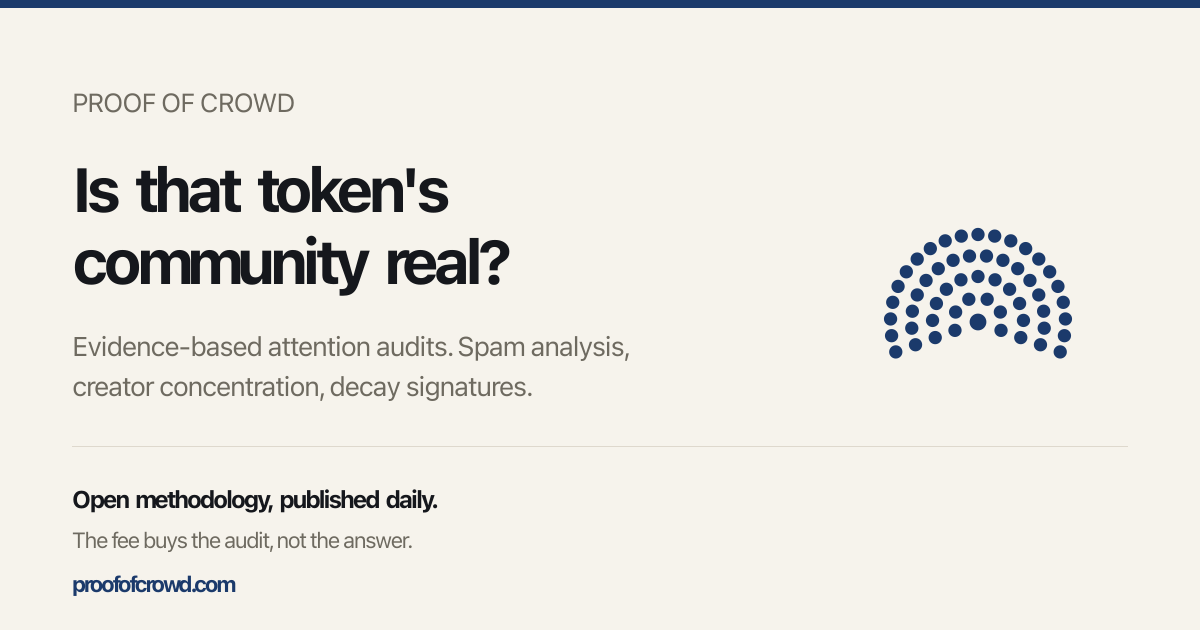
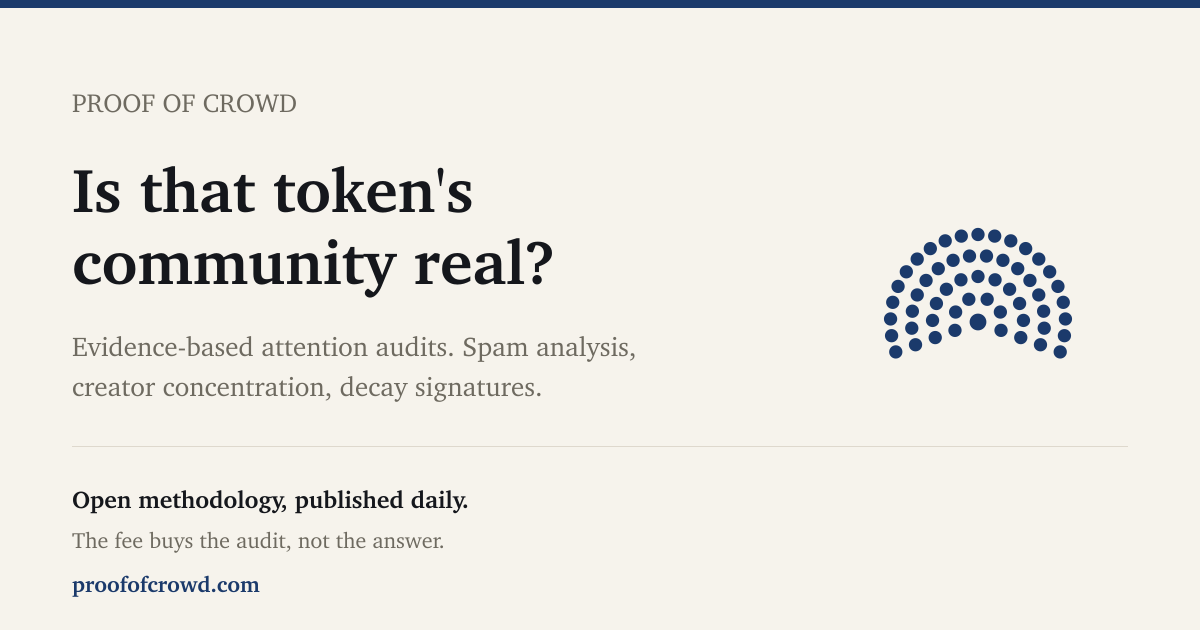
Charter, monospaced figures, and the X pair
Charter throughout. It was drawn as a reading serif for small sizes, so it
survives a table, and it makes a report read as a document rather than a
webpage. Figures go monospaced: an audit's numbers should read as measured
rather than asserted, and an aligned column stops a wider glyph passing for a
bigger value.

Choosing it turned up two things worth recording. fc-list listing a family
proves nothing, because librsvg goes through pango, which cannot load several
macOS .ttc collections and falls back to Helvetica in silence; a first pass at
comparing type directions was unknowingly comparing Helvetica with itself in
four rows of five. And the hand-set word spacing these generators carried is
now gone, since it only existed to survive a faked bold Helvetica that
swallowed spaces, and would have double-spaced a real bold face.

Adds assets/make_social.py for the X profile picture and header. The avatar
centres on the mark's ink rather than its grid, because an arch open at the
bottom does not sit where its bounding box claims, and X crops it to a circle.
The header keeps its lower left empty, which is where X lays the avatar.

diff --git a/styles.css b/styles.css
@@ -8,9 +8,16 @@
   --text: #15171c; --sub: #6e6a60;
   --brand: #1b3a6b; --on-brand: #ffffff;
   --ok: #236440; --mid: #7d560c; --bad: #a33228;
+
+  /* Charter throughout, with Georgia as the stand-in where Charter is absent.
+     Figures go in a monospace: an audit's numbers should read as measured
+     rather than asserted, and an aligned column stops a wider glyph passing
+     for a bigger value. */
+  --serif: Charter, "Bitstream Charter", "Charis SIL", Georgia, serif;
+  --mono: ui-monospace, Menlo, "SF Mono", "Cascadia Mono", "Roboto Mono", monospace;
 }
 * { margin: 0; padding: 0; box-sizing: border-box; }
-body { background: var(--bg); color: var(--text); font-family: system-ui, -apple-system, "Segoe UI", Helvetica, Arial, sans-serif; line-height: 1.6; }
+body { background: var(--bg); color: var(--text); font-family: var(--serif); line-height: 1.62; }
 .wrap { max-width: 860px; margin: 0 auto; padding: 0 24px; }
 nav { display: flex; align-items: center; gap: 26px; padding: 22px 0; border-bottom: 1px solid var(--line); }
 nav .brand { display: inline-flex; align-items: center; gap: 9px; font-weight: 800; font-size: 17px; color: var(--text); text-decoration: none; letter-spacing: 0.3px; }
@@ -97,3 +104,11 @@ img.chart { max-width: 100%; border-radius: 12px; border: 1px solid var(--line);
 .form .note { font-size: 13.5px; color: var(--sub); }
 .form .hp { position: absolute; left: -9999px; }
 @media (max-width: 620px) { .form .row { grid-template-columns: 1fr; } }
+
+/* Figures. Applied where a number is the point: the verdict score, the prices,
+   and the value column of a report table. */
+/* Only the figure goes mono. The verdict is a word and belongs in Charter. */
+.fig, .tier .price { font-family: var(--mono); letter-spacing: -0.5px; }
+.report-table td:nth-child(2) { font-family: var(--mono); font-size: 14px; }
+.kicker, nav a.link, th { font-family: var(--mono); }
+th { letter-spacing: 0.5px; }

diff --git a/sample.html b/sample.html
@@ -43,10 +43,10 @@
 <section style="border-top: none; padding-top: 24px;">
   <h2>1 · Verdict summary</h2>
   <div class="verdict-banner">
-    <div class="score">97/100 · manufactured</div>
+    <div class="score"><span class="fig">97/100</span> · manufactured</div>
     <p style="margin: 10px 0 0;">On July 31 the token's social attention spiked to roughly 6x its baseline while price stayed flat. The spike's composition was inconsistent with an arriving crowd: spam volume ran at twice the token's own 30-day norm, and three accounts generated 98% of all measurable interactions. The five days that followed showed the decisive signature: attention collapsed below the pre-spike baseline, the opposite of what genuine new-population events leave behind.</p>
   </div>
-  <table>
+  <table class="report-table">
     <tr><th>Metric</th><th>Value</th><th>Read</th></tr>
     <tr><td>Attention vs 30d baseline (event day)</td><td>~6x (2.1M interactions vs ~350k norm)</td><td><span class="flag">major spike</span></td></tr>
     <tr><td>Spam volume vs the token's own norm</td><td>2.0x</td><td><span class="flag">fresh wave</span></td></tr>

diff --git a/assets/make_social.py b/assets/make_social.py
@@ -1,0 +1,86 @@
+#!/usr/bin/env python3
+"""Profile picture and header for X.
+
+Two constraints drive the layout. X crops the avatar to a circle, so the mark
+sits centred on its own bounding box rather than on the 64-unit grid, whose
+centre is not where the ink is. And the avatar overlaps the header's lower
+left, so everything in that corner has to stay clear: roughly the left 340px
+below y=320 is dead space and is deliberately left empty.
+
+Usage: python3 assets/make_social.py
+"""
+
+import importlib.util
+import subprocess
+from pathlib import Path
+
+HERE = Path(__file__).resolve().parent
+SHARP = "/Users/nicki/lunarcrush-projects/projects/crowd-size/node_modules/sharp"
+
+_spec = importlib.util.spec_from_file_location("make_logo", HERE / "make_logo.py")
+_logo = importlib.util.module_from_spec(_spec); _spec.loader.exec_module(_logo)
+
+PAPER, PANEL, INK, SUB = "#f6f3ec", "#ffffff", "#15171c", "#6e6a60"
+BRAND, BAD, RULE = "#1b3a6b", "#a33228", "#ded8cd"
+SERIF, MONO = "Charter, Georgia, serif", "Menlo, ui-monospace, monospace"
+
+# The mark's ink, not its grid. The arch spans x 5..59 and y 9..47, so its
+# visual centre sits at (32, 28) and centring on (32, 32) would hang it low.
+INK_CX, INK_CY, INK_W = 32.0, 28.0, 54.0
+
+
+def esc(s):
+    return s.replace("&", "&amp;").replace("<", "&lt;").replace(">", "&gt;")
+
+
+def t(x, y, size, fill, s, weight=400, anchor="start", font=SERIF, extra=""):
+    return (f'<text x="{x}" y="{y}" font-size="{size}" fill="{fill}" font-weight="{weight}" '
+            f'text-anchor="{anchor}" font-family="{font}" {extra}>'
+            f'{s if "<tspan" in s else esc(s)}</text>')
+
+
+def render(name, w, h, body, bg=PAPER):
+    svg = (f'<svg xmlns="http://www.w3.org/2000/svg" width="{w}" height="{h}" '
+           f'viewBox="0 0 {w} {h}"><rect width="{w}" height="{h}" fill="{bg}"/>{body}</svg>')
+    (HERE / f"{name}.svg").write_text(svg)
+    subprocess.run(["node", "-e",
+        f"const s=require('{SHARP}');s('{HERE}/{name}.svg',{{density:300}}).resize({w},{h})"
+        f".png().toFile('{HERE}/{name}.png').then(i=>console.log('{name}.png',i.width+'x'+i.height));"],
+        check=True)
+
+
+def centred_mark(size, target_w):
+    """Place the mark so its ink, not its grid, lands in the middle."""
+    k = target_w / INK_W
+    return (f'<g transform="translate({size / 2 - INK_CX * k:.1f},{size / 2 - INK_CY * k:.1f}) '
+            f'scale({k:.4f})">{_logo.mark()}</g>')
+
+
+# ------------------------------------------------------- avatar (circle crop)
+for px in (400, 1000):
+    render(f"x-avatar-{px}", px, px, centred_mark(px, px * 0.63))
+
+# ------------------------------------------------------------ header 1500x500
+CARD_X, CARD_Y, CARD_W, CARD_H = 950, 104, 490, 286
+header = [
+    f'<rect x="0" y="0" width="1500" height="7" fill="{BRAND}"/>',
+    # Upper left only. Below y=320 on this side the avatar sits on top.
+    t(70, 150, 25, SUB, "EVIDENCE-BASED ATTENTION AUDITS", 400, font=MONO,
+      extra='letter-spacing="2"'),
+    t(70, 222, 58, INK, f'Proof of<tspan dx="17" fill="{BRAND}">Crowd</tspan>', 700),
+    t(70, 272, 26, SUB, "Who is actually talking, how much of it is manufactured,"),
+    t(70, 308, 26, SUB, "and whether the crowd survives a spreadsheet."),
+    # Right: what the product produces, rather than the logo a second time.
+    f'<rect x="{CARD_X}" y="{CARD_Y}" width="{CARD_W}" height="{CARD_H}" rx="14" '
+    f'fill="{PANEL}" stroke="{RULE}" stroke-width="1.5"/>',
+    t(CARD_X + 30, CARD_Y + 44, 15, SUB, "SAMPLE VERDICT", 400, font=MONO, extra='letter-spacing="1.6"'),
+    t(CARD_X + 30, CARD_Y + 104, 44, BAD, "97/100", 700, font=MONO),
+    t(CARD_X + 30, CARD_Y + 146, 30, BAD, "manufactured", 700),
+    f'<rect x="{CARD_X + 30}" y="{CARD_Y + 170}" width="{CARD_W - 60}" height="1" fill="{RULE}"/>',
+    t(CARD_X + 30, CARD_Y + 206, 18, SUB, "Spam vs the token's own norm"),
+    t(CARD_X + CARD_W - 30, CARD_Y + 206, 18, INK, "2.0x", 700, "end", MONO),
+    t(CARD_X + 30, CARD_Y + 244, 18, SUB, "Top 3 creator share"),
+    t(CARD_X + CARD_W - 30, CARD_Y + 244, 18, INK, "98%", 700, "end", MONO),
+    t(1440, 440, 25, BRAND, "proofofcrowd.com", 700, "end"),
+]
+render("x-header", 1500, 500, "".join(header))

diff --git a/assets/make_report_charts.py b/assets/make_report_charts.py
@@ -13,7 +13,8 @@ from pathlib import Path
 
 HERE = Path(__file__).resolve().parent
 SHARP = "/Users/nicki/lunarcrush-projects/projects/crowd-size/node_modules/sharp"
-FONT = "system-ui, -apple-system, 'Segoe UI', Helvetica, Arial, sans-serif"
+FONT = "Charter, Georgia, serif"
+MONO = "Menlo, ui-monospace, monospace"
 
 GROUND, INK, SUB, RULE = "#ffffff", "#15171c", "#6e6a60", "#ded8cd"
 NEUTRAL, OK, BAD = "#8d8578", "#236440", "#a33228"   # all clear 3:1 on white
@@ -23,19 +24,16 @@ def esc(s):
     return s.replace("&", "&amp;").replace("<", "&lt;").replace(">", "&gt;")
 
 
-def heavy(text, size):
-    """librsvg drops word spaces at bold weights, so set them by hand."""
-    w = text.split(" ")
-    out = [esc(w[0])]
-    for prev, nxt in zip(w, w[1:]):
-        out.append(f'<tspan dx="{size * (0.45 if prev.endswith("%") else 0.30):.0f}">{esc(nxt)}</tspan>')
-    return "".join(out)
+# Charter ships a real bold face, so librsvg keeps the word spaces and the
+# hand-set spacing this file used to need is gone.
 
 
-def txt(x, y, size, fill, s, weight=400, anchor="start"):
-    body = heavy(s, size) if weight >= 700 and " " in s else esc(s)
+def txt(x, y, size, fill, s, weight=400, anchor="start", font=None):
+    """Figures go in MONO. An audit's numbers should read as measured rather
+    than asserted, and a monospace column also stops the eye from mistaking a
+    wider glyph for a bigger value."""
     return (f'<text x="{x}" y="{y}" font-size="{size}" fill="{fill}" font-weight="{weight}" '
-            f'text-anchor="{anchor}" font-family="{FONT}">{body}</text>')
+            f'text-anchor="{anchor}" font-family="{font or FONT}">{esc(s)}</text>')
 
 
 def render(name, w, h, body, scale=2):
@@ -63,7 +61,7 @@ for i, (day, val, label) in enumerate(DAYS):
     flagged = day == "Jul 31"
     body.append(f'<rect x="{x:.1f}" y="{BASE - h:.1f}" width="{bw:.1f}" height="{h:.1f}" rx="4" '
                 f'fill="{BAD if flagged else NEUTRAL}"/>')
-    body.append(txt(x + bw / 2, BASE - h - 14, 24, BAD if flagged else INK, label, 700, "middle"))
+    body.append(txt(x + bw / 2, BASE - h - 14, 23, BAD if flagged else INK, label, 700, "middle", MONO))
     body.append(txt(x + bw / 2, 592, 19, SUB, day, 400, "middle"))
 body += [f'<rect x="60" y="{BASE}" width="{SPAN}" height="1.5" fill="{RULE}"/>',
          txt(60, 644, 24, INK, "Latest day retains 3% of the spike's volume.", 700),
@@ -86,7 +84,7 @@ for i, (label, note, val, color) in enumerate(COLS):
     x = 80 + i * (CW + 130)
     h = max(10, MAXH2 * val / top)
     body.append(f'<rect x="{x}" y="{BASE2 - h:.1f}" width="{CW}" height="{h:.1f}" rx="4" fill="{color}"/>')
-    body.append(txt(x + CW / 2, BASE2 - h - 16, 34, color, str(val), 700, "middle"))
+    body.append(txt(x + CW / 2, BASE2 - h - 16, 33, color, str(val), 700, "middle", MONO))
     body.append(txt(x + CW / 2, 642, 24, INK, label, 400, "middle"))
     body.append(txt(x + CW / 2, 672, 18, SUB, note, 400, "middle"))
 body += [f'<rect x="60" y="{BASE2}" width="1080" height="1.5" fill="{RULE}"/>',

diff --git a/assets/make_og.py b/assets/make_og.py
@@ -20,7 +20,8 @@ _spec = importlib.util.spec_from_file_location("make_logo", HERE / "make_logo.py
 _logo = importlib.util.module_from_spec(_spec)
 _spec.loader.exec_module(_logo)
 BG, TEXT, SUB, GREEN, PANEL = "#f6f3ec", "#15171c", "#6e6a60", "#1b3a6b", "#ffffff"
-FONT = "system-ui, -apple-system, 'Segoe UI', Helvetica, Arial, sans-serif"
+FONT = "Charter, Georgia, serif"
+MONO = "Menlo, ui-monospace, monospace"
 W, H = 1200, 630
 
 
@@ -28,22 +29,14 @@ def esc(s: str) -> str:
     return s.replace("&", "&amp;").replace("<", "&lt;").replace(">", "&gt;")
 
 
-def heavy(text: str, size: int) -> str:
-    """librsvg drops word spaces at bold weights, so space the words by hand.
-
-    Weights above 700 are worse than useless here: there is no face that heavy
-    installed, so librsvg fakes one by drawing every glyph twice at an offset,
-    which comes out as a ghosted smear at headline size. Everything bold on
-    this card stays at 700."""
-    words = text.split(" ")
-    parts = [esc(words[0])]
-    for prev, w in zip(words, words[1:]):
-        parts.append(f'<tspan dx="{size * (0.45 if prev.endswith('%') else 0.30):.0f}">{esc(w)}</tspan>')
-    return "".join(parts)
+# The hand-set word spacing that used to live here is gone. It existed because
+# librsvg faked a bold Helvetica by double-striking glyphs, which swallowed the
+# spaces. Charter ships a real bold, so real spaces work and the old hack would
+# now double them.
 
 
 def txt(x, y, size, fill, s, weight=400) -> str:
-    body = heavy(s, size) if weight >= 700 and " " in s else esc(s)
+    body = esc(s)
     return (f'<text x="{x}" y="{y}" font-size="{size}" fill="{fill}" '
             f'font-weight="{weight}" font-family="{FONT}">{body}</text>')
 

diff --git a/assets/make_logo.py b/assets/make_logo.py
@@ -26,7 +26,7 @@ SHARP = "/Users/nicki/lunarcrush-projects/projects/crowd-size/node_modules/sharp
 # the mark: the brand must not imply a verdict just by being on the page.
 PAPER, INK, BRAND = "#f6f3ec", "#15171c", "#1b3a6b"
 BRAND_ON_DARK = "#7da7e0"   # the navy is unreadable on ink, so it lifts
-FONT = "system-ui,-apple-system,Helvetica,Arial,sans-serif"
+FONT = "Charter, Georgia, serif"
 SWEEP, START = 220, 160     # degrees; the arc is open at the bottom
 
 
@@ -60,13 +60,13 @@ def svg(w, h, body, bg=PAPER) -> str:
 def wordmark(accent, text, bg) -> str:
     """Horizontal lockup, the proportion the site nav and a banner want.
 
-    Weight stays at 700. There is no heavier face installed, so librsvg fakes
-    one by drawing every glyph twice at an offset, which reads as a smear.
+    Weight stays at 700. Charter has a real bold face, so librsvg sets it
+    directly instead of faking one by double-striking the glyphs.
     """
     return svg(480, 128,
         f'<g transform="translate(20,30)">{mark(accent)}</g>'
         f'<text x="104" y="76" font-size="38" font-weight="700" font-family="{FONT}" '
-        f'fill="{text}">Proof of<tspan dx="9" fill="{accent}">Crowd</tspan></text>', bg)
+        f'fill="{text}">Proof of<tspan dx="12" fill="{accent}">Crowd</tspan></text>', bg)
 
 
 def render(name, source, out_w=None):

diff --git a/README.md b/README.md
@@ -61,9 +61,38 @@ drift apart.
 | `assets/logo-mark.png` | square mark, avatars and app icons |
 | `assets/logo-mark-bare.png` | mark with no ground, for arbitrary backgrounds |
 | `assets/favicon-{16,32,180}.png` | browser and Apple touch icons |
+| `assets/x-avatar-{400,1000}.png` | X profile picture, built for a circular crop |
+| `assets/x-header.png` | X header, 1500x500 |
+
+`python3 assets/make_social.py` rebuilds the X pair. The header leaves its
+lower left empty on purpose, since that is where X lays the profile picture
+over the top.
 
 A fingerprint doesn't survive 16px at full detail, so the favicon runs a
 three-ridge version with much fatter dots at the same silhouette.
+
+## Type
+
+Charter for everything, figures in a monospace. Charter is a reading serif
+drawn for small sizes, so it holds up in a table, and it makes a report look
+like a document instead of a webpage. Figures go mono because an audit's
+numbers should read as measured rather than asserted, and an aligned column
+stops a wider glyph passing for a bigger value.
+
+Two notes for anyone regenerating the imagery:
+
+- `fc-list` listing a family proves nothing. librsvg goes through pango, which
+  cannot load several macOS `.ttc` collections and then falls back to Helvetica
+  without saying so. Verify by rendering against a deliberately fake family
+  name and comparing. Iowan Old Style, Superclarendon, Seravek, Hoefler Text,
+  Marion and Athelas all fail this way here.
+- Bold weights need no hand-set word spacing. That workaround existed because
+  librsvg faked a bold Helvetica by double-striking glyphs, which swallowed the
+  spaces. Charter ships a real bold, so real spaces work.
+
+The site stack is `Charter, "Bitstream Charter", "Charis SIL", Georgia, serif`,
+which resolves natively on Apple platforms and falls back to Georgia elsewhere.
+Self-hosting an open Charter would close that gap.
 
 ## Integrity policy
 
